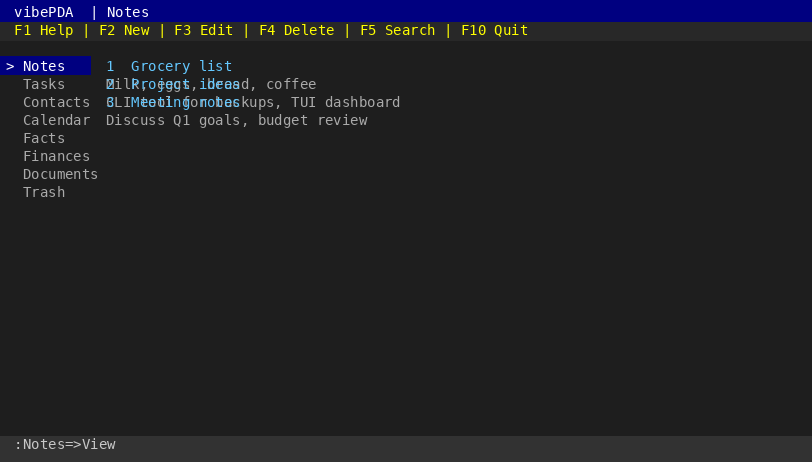
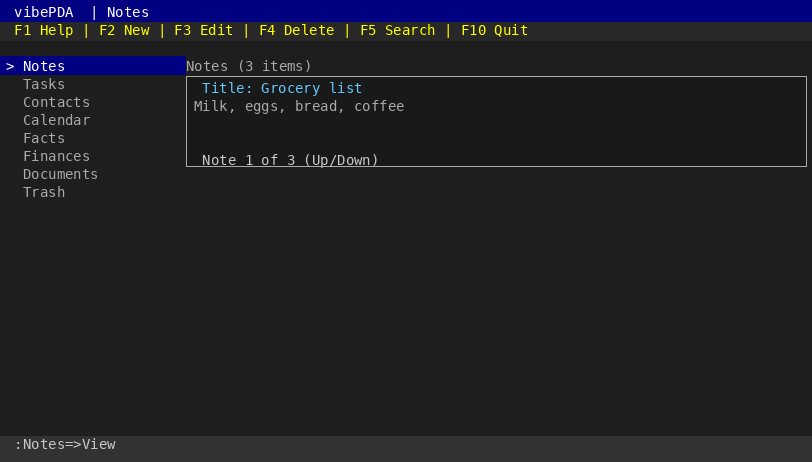
Contacts business cards, screenshot fixes, docs update
- Contacts: business card view (name, email, phone, notes) with Up/Down nav
- Screenshots: fix sidebar/main overlap, add module headers, card format
- Docs: README, USER_MANUAL, PLAN, CHANGELOG updated

Changed region(s): [[0.0924, 0.1212, 0.4926, 0.2727], [0.2463, 0.3333, 0.4926, 0.3636], [0.9852, 0.3333, 1.0, 0.3636]]

diff --git a/scripts/gen_screenshots.py b/scripts/gen_screenshots.py
@@ -28,6 +28,10 @@ CELL_H = 18
 PADDING = 4
 BORDER = 2
 
+# Layout: sidebar 18 chars (matches app.c sidebar_width)
+SIDEBAR_WIDTH = 18
+MAIN_X = SIDEBAR_WIDTH * CELL_W + PADDING + BORDER  # Content starts after sidebar
+
 # Colors (approximate terminal)
 BG = (0, 0, 0)
 FG = (170, 170, 170)
@@ -98,32 +102,34 @@ def render_notes_view(module_idx=0):
     )
     draw.text((PADDING + BORDER, CELL_H + PADDING), menu, font=font, fill=MENU_FG)
 
-    # Sidebar
+    # Sidebar (18 chars wide, matches app)
     content_top = 2 * CELL_H + PADDING
+    sidebar_right = SIDEBAR_WIDTH * CELL_W + PADDING + BORDER
     for i, mod in enumerate(MODULES):
         y = content_top + (i + 1) * CELL_H
         prefix = "> " if i == module_idx else "  "
         text = prefix + mod
         if i == module_idx:
             draw.rectangle(
-                [(0, y - 2), (18 * CELL_W // 2, y + CELL_H - 2)],
+                [(0, y - 2), (sidebar_right - 1, y + CELL_H - 2)],
                 fill=SIDEBAR_SEL_BG,
             )
             draw.text((PADDING + BORDER, y), text, font=font, fill=SIDEBAR_SEL_FG)
         else:
             draw.text((PADDING + BORDER, y), text, font=font, fill=FG)
 
-    # Main content - note cards
-    main_col = 20
-    cards = [
-        ("1  Grocery list", "Milk, eggs, bread, coffee"),
-        ("2  Project ideas", "CLI tool for backups, TUI dashboard"),
-        ("3  Meeting notes", "Discuss Q1 goals, budget review"),
-    ]
-    for i, (title, content) in enumerate(cards):
-        y = content_top + (i + 1) * CELL_H
-        draw.text((PADDING + BORDER + main_col * CELL_W // 2, y), title, font=font, fill=CARD_TITLE)
-        draw.text((PADDING + BORDER + main_col * CELL_W // 2, y + CELL_H), content[:50], font=font, fill=FG)
+    # Main content header + note card (bordered, matches actual app)
+    draw.text((MAIN_X, content_top + CELL_H), "Notes (3 items)", font=font_bold, fill=FG)
+    card_x = MAIN_X
+    card_w = img.width - card_x - PADDING - BORDER
+    card_top = content_top + 2 * CELL_H
+    if card_w > 20:
+        # Bordered card: Title + Content (one note at a time)
+        draw.rectangle([(card_x, card_top), (card_x + card_w, card_top + 5 * CELL_H)],
+                       outline=FG, fill=(25, 25, 25))
+        draw.text((card_x + 8, card_top + 4), " Title: Grocery list", font=font_bold, fill=CARD_TITLE)
+        draw.text((card_x + 8, card_top + CELL_H + 4), "Milk, eggs, bread, coffee", font=font, fill=FG)
+        draw.text((card_x + 8, card_top + 4 * CELL_H + 4), " Note 1 of 3 (Up/Down) ", font=font, fill=STATUS_FG)
 
     # Status bar
     status_y = (ROWS - 1) * CELL_H + PADDING
@@ -142,6 +148,7 @@ def render_tasks_view():
     draw = ImageDraw.Draw(img)
     font_path = find_mono_font()
     font = ImageFont.truetype(font_path, 14) if font_path else ImageFont.load_default()
+    font_bold = ImageFont.truetype(font_path, 14) if font_path else font
 
     # Title bar
     title = " vibePDA  | Tasks "
@@ -158,29 +165,32 @@ def render_tasks_view():
 
     # Sidebar - Tasks selected
     content_top = 2 * CELL_H + PADDING
+    sidebar_right = SIDEBAR_WIDTH * CELL_W + PADDING + BORDER
     for i, mod in enumerate(MODULES):
         y = content_top + (i + 1) * CELL_H
         prefix = "> " if i == 1 else "  "
         text = prefix + mod
         if i == 1:
             draw.rectangle(
-                [(0, y - 2), (18 * CELL_W // 2, y + CELL_H - 2)],
+                [(0, y - 2), (sidebar_right - 1, y + CELL_H - 2)],
                 fill=SIDEBAR_SEL_BG,
             )
             draw.text((PADDING + BORDER, y), text, font=font, fill=SIDEBAR_SEL_FG)
         else:
             draw.text((PADDING + BORDER, y), text, font=font, fill=FG)
 
-    # Task list
+    # Main content header + task list (format: [x] id  title)
+    draw.text((MAIN_X, content_top + CELL_H), "Tasks (4 items)", font=font_bold, fill=FG)
     tasks = [
-        "[ ] Buy groceries",
-        "[X] Finish report",
-        "[ ] Call dentist",
-        "[ ] Review PRs",
+        (" ", 1, "Buy groceries"),
+        ("X", 2, "Finish report"),
+        (" ", 3, "Call dentist"),
+        (" ", 4, "Review PRs"),
     ]
-    for i, t in enumerate(tasks):
-        y = content_top + (i + 1) * CELL_H
-        draw.text((PADDING + BORDER + 10 * CELL_W, y), t, font=font, fill=FG)
+    for i, (mark, tid, title) in enumerate(tasks):
+        y = content_top + (i + 2) * CELL_H
+        line = f"[{mark}] {tid:3d}  {title}"
+        draw.text((MAIN_X, y), line, font=font, fill=FG)
 
     # Status bar
     status_y = (ROWS - 1) * CELL_H + PADDING
@@ -230,6 +240,7 @@ def render_search_view():
     draw = ImageDraw.Draw(img)
     font_path = find_mono_font()
     font = ImageFont.truetype(font_path, 14) if font_path else ImageFont.load_default()
+    font_bold = ImageFont.truetype(font_path, 14) if font_path else font
 
     # Title bar
     title = " vibePDA  | Notes "
@@ -246,13 +257,14 @@ def render_search_view():
 
     # Sidebar
     content_top = 2 * CELL_H + PADDING
+    sidebar_right = SIDEBAR_WIDTH * CELL_W + PADDING + BORDER
     for i, mod in enumerate(MODULES):
         y = content_top + (i + 1) * CELL_H
         prefix = "> " if i == 0 else "  "
         text = prefix + mod
         if i == 0:
             draw.rectangle(
-                [(0, y - 2), (18 * CELL_W // 2, y + CELL_H - 2)],
+                [(0, y - 2), (sidebar_right - 1, y + CELL_H - 2)],
                 fill=SIDEBAR_SEL_BG,
             )
             draw.text((PADDING + BORDER, y), text, font=font, fill=SIDEBAR_SEL_FG)
@@ -264,9 +276,10 @@ def render_search_view():
     draw.rectangle([(0, status_y), (img.width, img.height)], fill=(60, 40, 0))
     draw.text((PADDING + BORDER, status_y), " Search: grocery_ ", font=font, fill=(255, 255, 200))
 
-    # Filtered result
-    draw.text((PADDING + BORDER + 10 * CELL_W, content_top + CELL_H), "1  Grocery list", font=font, fill=CARD_TITLE)
-    draw.text((PADDING + BORDER + 10 * CELL_W, content_top + 2 * CELL_H), "Milk, eggs, bread, coffee", font=font, fill=FG)
+    # Filtered result (Notes with filter applied)
+    draw.text((MAIN_X, content_top + CELL_H), "Notes (1 item) [Filter: grocery]", font=font_bold, fill=FG)
+    draw.text((MAIN_X, content_top + 2 * CELL_H), "1  Grocery list", font=font, fill=CARD_TITLE)
+    draw.text((MAIN_X, content_top + 3 * CELL_H), "Milk, eggs, bread, coffee", font=font, fill=FG)
 
     return img
 

diff --git a/src/app.c b/src/app.c
@@ -204,6 +204,13 @@ typedef struct {
     int want_idx;
 } NoteFetchCtx;
 
+typedef struct {
+    VibeContact contact;
+    int found;
+    int idx;
+    int want_idx;
+} ContactFetchCtx;
+
 static void fetch_note_at_cb(const VibeNote *n, void *v) {
     NoteFetchCtx *c = (NoteFetchCtx *)v;
     if (c->idx == c->want_idx) {
@@ -314,17 +321,126 @@ static void draw_task_cb(const VibeTask *t, void *v) {
     c->idx++;
 }
 
-static void draw_contact_cb(const VibeContact *c, void *v) {
-    DrawCtx *cx = (DrawCtx *)v;
-    if (*cx->row >= cx->bottom) return;
-    tui_goto(*cx->row, cx->main_col);
-    if (cx->idx == cx->selected && !cx->focus_sidebar) tui_attr_reverse();
-    char line[256];
-    snprintf(line, sizeof(line), "%3d  %.*s", c->id, cx->main_width - 8, c->name[0] ? c->name : "(no name)");
-    tui_putstr(line);
-    if (cx->idx == cx->selected && !cx->focus_sidebar) tui_attr_normal();
-    (*cx->row)++;
-    cx->idx++;
+static void fetch_contact_at_cb(const VibeContact *c, void *v) {
+    ContactFetchCtx *ctx = (ContactFetchCtx *)v;
+    if (ctx->idx == ctx->want_idx) {
+        ctx->contact = *c;
+        ctx->found = 1;
+    }
+    ctx->idx++;
+}
+
+static void draw_contact_card(AppState *a, int main_col, int main_width, int top, int bottom) {
+    const char *filter_query = a->search_query[0] ? a->search_query : NULL;
+    int count = get_item_count_with_filter(MODULE_CONTACTS, filter_query);
+    if (count == 0) return;
+    ContactFetchCtx ctx = {{0}, 0, 0, a->selected_index};
+    if (filter_query) {
+        storage_contacts_list_filtered(fetch_contact_at_cb, &ctx, filter_query);
+    } else {
+        storage_contacts_list(fetch_contact_at_cb, &ctx);
+    }
+    if (!ctx.found) return;
+
+    const VibeContact *c = &ctx.contact;
+    int box_width = main_width;
+    int box_left = main_col;
+    if (box_width < 10) box_width = 10;
+
+    /* Card top border */
+    tui_goto(top, box_left);
+    tui_putchar('+');
+    for (int i = 0; i < box_width; i++) tui_putchar('-');
+    tui_putchar('+');
+
+    /* Name row (bold, like business card header) */
+    tui_goto(top + 1, box_left);
+    tui_putchar('|');
+    tui_attr_bold();
+    tui_putstr(" ");
+    tui_putstr(c->name[0] ? c->name : "(no name)");
+    tui_attr_normal();
+    for (int i = 1 + (int)strlen(c->name[0] ? c->name : "(no name)"); i < box_width - 1; i++) tui_putchar(' ');
+    tui_putchar('|');
+
+    /* Separator */
+    tui_goto(top + 2, box_left);
+    tui_putchar('|');
+    for (int i = 0; i < box_width; i++) tui_putchar('-');
+    tui_putchar('|');
+
+    /* Email row */
+    tui_goto(top + 3, box_left);
+    tui_putchar('|');
+    tui_putstr(" Email: ");
+    tui_putstr(c->email[0] ? c->email : "-");
+    for (int i = 7 + (int)strlen(c->email[0] ? c->email : "-"); i < box_width - 1; i++) tui_putchar(' ');
+    tui_putchar('|');
+
+    /* Phone row */
+    tui_goto(top + 4, box_left);
+    tui_putchar('|');
+    tui_putstr(" Phone: ");
+    tui_putstr(c->phone[0] ? c->phone : "-");
+    for (int i = 7 + (int)strlen(c->phone[0] ? c->phone : "-"); i < box_width - 1; i++) tui_putchar(' ');
+    tui_putchar('|');
+
+    /* Notes section (if present) */
+    int row = top + 5;
+    if (c->notes[0]) {
+        tui_goto(row, box_left);
+        tui_putchar('|');
+        for (int i = 0; i < box_width - 2; i++) tui_putchar('-');
+        tui_putchar('|');
+        row++;
+
+        const char *p = c->notes;
+        int line = 0;
+        int i = 0;
+        int max_lines = bottom - top - 8;
+        if (max_lines < 1) max_lines = 1;
+        int content_width = box_width - 2;
+        if (content_width < 1) content_width = 1;
+        while (line < max_lines) {
+            tui_goto(row + line, box_left);
+            tui_putchar('|');
+            int col = 1;
+            while (i < (int)strlen(c->notes) && col < box_width - 1) {
+                char ch = p[i++];
+                if (ch == '\n') break;
+                tui_putchar(ch >= 32 && ch < 127 ? ch : ' ');
+                col++;
+            }
+            if (i < (int)strlen(c->notes) && p[i] == '\n') i++;
+            for (; col < box_width - 1; col++) tui_putchar(' ');
+            tui_putchar('|');
+            line++;
+            if (i >= (int)strlen(c->notes)) break;
+        }
+        for (; line < max_lines; line++) {
+            tui_goto(row + line, box_left);
+            tui_putchar('|');
+            for (int col = 1; col < box_width - 1; col++) tui_putchar(' ');
+            tui_putchar('|');
+        }
+        row += max_lines;
+    }
+
+    /* Bottom border */
+    tui_goto(row, box_left);
+    tui_putchar('+');
+    for (int i = 0; i < box_width; i++) tui_putchar('-');
+    tui_putchar('+');
+
+    /* Card index hint */
+    tui_goto(row + 1, box_left);
+    {
+        char buf[64];
+        snprintf(buf, sizeof(buf), " Contact %d of %d (Up/Down) ", a->selected_index + 1, count);
+        tui_attr_reverse();
+        tui_putstr(buf);
+        tui_attr_normal();
+    }
 }
 
 static void draw_event_cb(const VibeCalendarEvent *e, void *v) {
@@ -461,10 +577,8 @@ static void draw_main(AppState *a) {
             storage_tasks_list(draw_task_cb, &dctx);
         }
     } else if (a->current_module == MODULE_CONTACTS) {
-        if (filter_query) {
-            storage_contacts_list_filtered(draw_contact_cb, &dctx, filter_query);
-        } else {
-            storage_contacts_list(draw_contact_cb, &dctx);
+        if (count > 0) {
+            draw_contact_card(a, main_col, main_width, row, bottom);
         }
     } else if (a->current_module == MODULE_CALENDAR) {
         if (filter_query) {

diff --git a/CHANGELOG.md b/CHANGELOG.md
@@ -10,6 +10,7 @@ The format is based on [Keep a Changelog](https://keepachangelog.com/en/1.1.0/).
 
 ### Added
 
+- **Contact business cards**: Contacts module now displays contacts as business cards (name, email, phone, notes) with Up/Down navigation, matching the Notes card style.
 - **Code review**: Senior developer review with documentation, comments, and improvements. See `docs/CODE_REVIEW.md`.
 - **Entity type constants**: Replaced magic numbers in storage layer for maintainability.
 - **Trash CLI**: `trash list` and `trash restore` now support `fact` type; display shows correct type names.
@@ -19,6 +20,7 @@ The format is based on [Keep a Changelog](https://keepachangelog.com/en/1.1.0/).
 - **Storage migration**: Migration from .txt to .bin now uses `write_u32()` for consistent little-endian output.
 - **copy_str**: Added null and max<=0 guards for safety.
 - **Documentation**: Enhanced file headers in storage_file.c, storage.h, types.h, main.c, app.c, tui.c, vibe_config.c.
+- **Screenshots**: Fixed layout overlap (sidebar vs main content), added module headers, updated Notes to bordered card format, Tasks to `[x] id title` format.
 
 ---
 

diff --git a/PLAN.md b/PLAN.md
@@ -65,7 +65,7 @@ All user-facing entities support **soft-delete** (deleted_at). Trash lists items
 |----------|------------------------|--------------------------------------|
 | Notes    | Scratchpad, quick notes| Note list; New/Edit/Delete; Search (title/content) |
 | Tasks    | Todo list              | Task list; done flag; New/Edit/Delete; Search (title) |
-| Contacts | Contact list           | Contact list/cards; New/Edit/Delete; Search (name/email/phone) |
+| Contacts | Contact list           | Business card view (name, email, phone, notes); New/Edit/Delete; Search (name/email/phone) |
 | Calendar | Events & appointments  | Month grid + event list; New/Edit/Delete; Search (title) |
 | Facts    | Key-value pairs        | Fact list (key = value); New/Edit/Delete; Search (key/value) |
 | Finances | General ledger         | Finance entry list (stub); Search (description/category/account) |

diff --git a/docs/USER_MANUAL.md b/docs/USER_MANUAL.md
@@ -177,12 +177,13 @@ The sidebar shows all available modules:
 
 ### Contacts
 
-**Purpose**: Contact list with name, email, phone.
+**Purpose**: Contact list with name, email, phone, notes.
 
 **Features**:
-- Name, email, phone fields
+- Name, email, phone, notes fields
+- Business card view: each contact shown as a card with all details
+- Up/Down to navigate between contacts
 - Search by name, email, or phone
-- Simple list display
 
 **Creating a Contact**:
 1. Press **F2** or **N**
@@ -584,8 +585,9 @@ Run a single operation and exit:
 
 ### Contacts Module
 
+- Contacts display as business cards (name, email, phone, notes)
+- Up/Down navigate between contacts; footer shows "Contact N of M"
 - Search works across name, email, and phone
-- Useful for finding contacts by any identifier
 
 ### Trash Module
 

diff --git a/README.md b/README.md
@@ -18,7 +18,7 @@
 |-----------|-----------------------------|
 | **Notes** | Scratchpad and quick notes  |
 | **Tasks** | To-do list                  |
-| **Contacts** | Contact list            |
+| **Contacts** | Contact list (business card view) |
 | **Calendar** | Events and appointments |
 | **Facts** | Key-value pairs (e.g. SSN, passwords) |
 | **Finances** | General ledger (stub) |
@@ -27,6 +27,7 @@
 
 - **1980s-style TUI**: Menu bar (F1–F5, F10), status line. Uses curses (ncurses/PDCurses).
 - **Note cards**: Notes display as cards (Title + Content); Up/Down navigate between them.
+- **Contact cards**: Contacts display as business cards (name, email, phone, notes); Up/Down navigate.
 
 | Notes | Tasks | Search | Help |
 |:-----:|:-----:|:------:|:----:|
